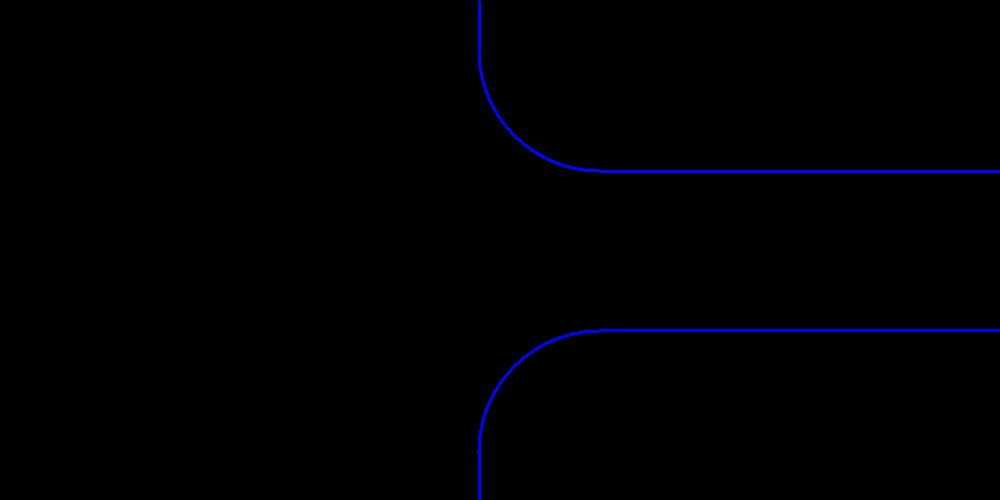
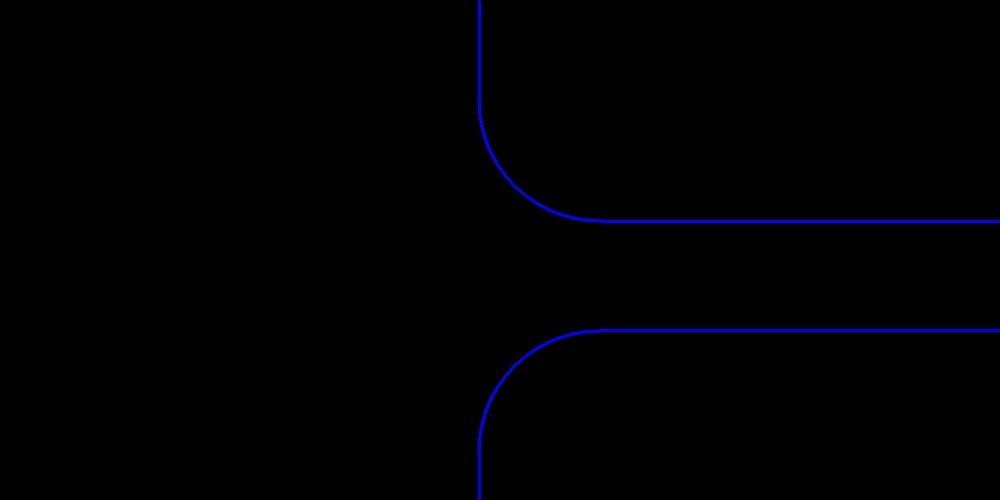
fix rightContour

diff --git a/src/contourBuilder.cpp b/src/contourBuilder.cpp
@@ -159,7 +159,7 @@ std::vector<std::vector<cv::Point>> contourBuilder::getRightContours()
 
     std::vector<cv::Point> secondContour;
 
-    for (int yCoordinate = 1; yCoordinate < 50; ++yCoordinate) // 1 -- 200
+    for (int yCoordinate = 1; yCoordinate < 100; ++yCoordinate) // 1 -- 200
     {
         secondContour.emplace_back(cv::Point(479, yCoordinate));
     }
